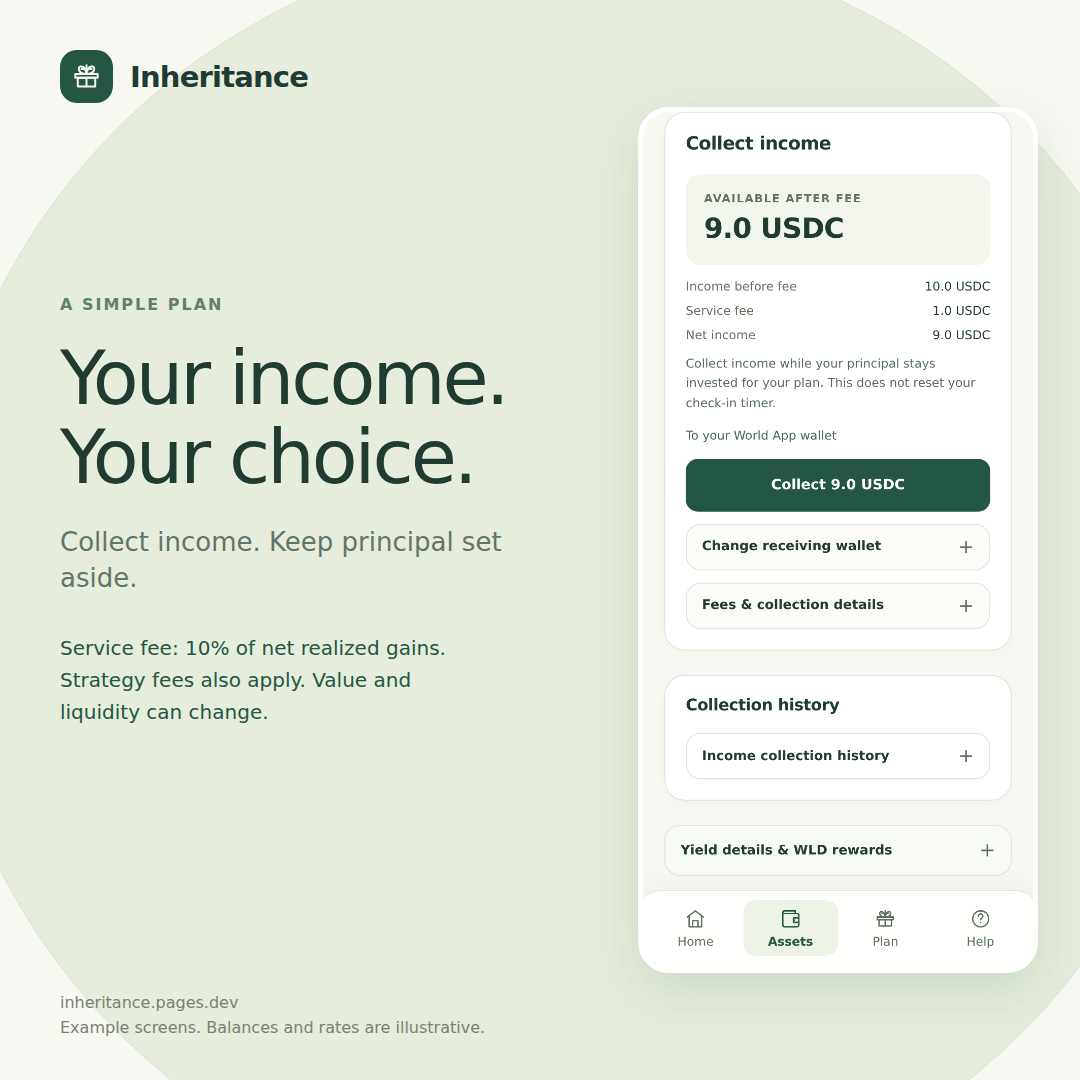
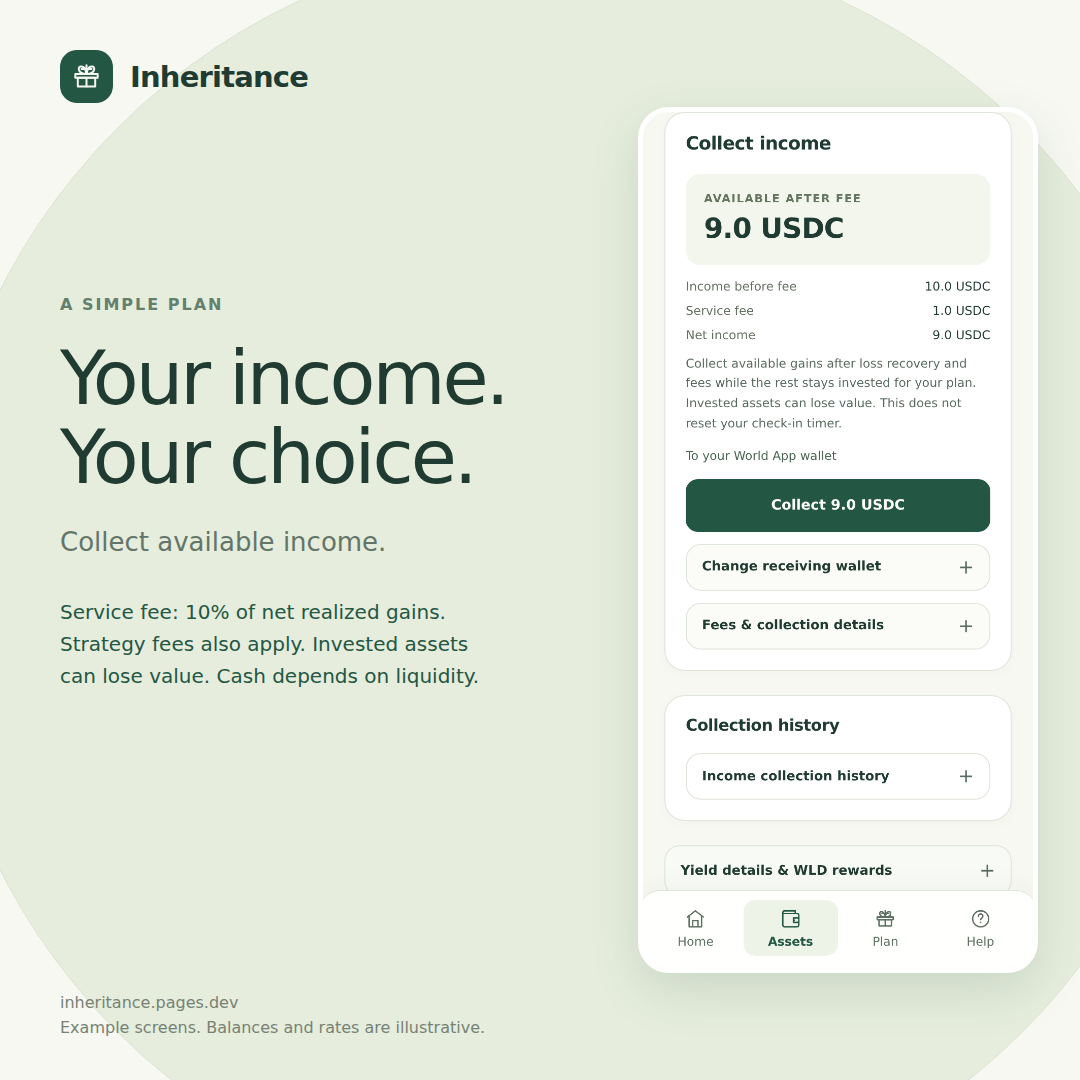
Make interrupted setup recovery visible and refresh reviewed store presentation

diff --git a/app/src/components/PlanSetup.tsx b/app/src/components/PlanSetup.tsx
@@ -120,8 +120,29 @@ export function PlanSetup({
   const [reviewSnapshot, setReviewSnapshot] = useState<ReviewSnapshot | null>(null);
   const [legalDocument, setLegalDocument] = useState<"terms" | "privacy" | null>(null);
   const reviewHeadingRef = useRef<HTMLHeadingElement>(null);
+  const resumeHeadingRef = useRef<HTMLHeadingElement>(null);
+  const resumeAttention = useRef({ pending: false, busy: false });
+  const hasPendingPlan = Boolean(pendingPlan);
   const wasReviewingRef = useRef(false);
   const createClickLocked = useRef(false);
+  useEffect(() => {
+    const previous = resumeAttention.current;
+    resumeAttention.current = { pending: hasPendingPlan, busy };
+    // A returned wallet request may replace the form below existing settings.
+    // Show the recovery action once; background reads must not move the reader.
+    if (!hasPendingPlan || busy || previous.pending && !previous.busy) return;
+    let focused = false;
+    const frame = requestAnimationFrame(() => {
+      focused = true;
+      resumeHeadingRef.current?.focus({ preventScroll: true });
+      resumeHeadingRef.current?.scrollIntoView({ block: "start" });
+    });
+    return () => {
+      cancelAnimationFrame(frame);
+      // StrictMode may replay mount effects before the frame has run.
+      if (!focused) resumeAttention.current = previous;
+    };
+  }, [hasPendingPlan, busy]);
   useEffect(() => {
     const viewport = window.visualViewport;
     if (!viewport) return;
@@ -388,7 +409,7 @@ export function PlanSetup({
     <CardContent className="plan-setup-content">
       {pendingPlan && <section className="plan-resume" aria-labelledby="plan-resume-title">
         <div>
-          <h3 id="plan-resume-title">{t("plan.pending.title")}</h3>
+          <h3 id="plan-resume-title" tabIndex={-1} ref={resumeHeadingRef}>{t("plan.pending.title")}</h3>
           <p>{t("plan.pending.body")}</p>
           {(pendingPlan.createState === "submitting" || pendingPlan.createState === "submitted")
             && <p role="status">{t("plan.pending.checkCreate")}</p>}

diff --git a/app/src/components/PlanSetup.css b/app/src/components/PlanSetup.css
@@ -64,7 +64,8 @@ html[data-plan-keyboard] .plan-setup-with-actions .card-content.plan-setup-conte
 .plan-setup-card .plan-final-review { border-color: #b7cbb3; background: #f1f6ed; }
 .plan-final-review > .plan-risk { margin-top: 10px; padding: 10px 0 0; border: 0; border-top: 1px solid #dfe6d8; background: transparent; }
 .plan-setup-card .plan-alignment-review { border-color: #d5bd7d; background: #fff9e9; }
-.plan-review h3:focus { outline: 2px solid #86a97f; outline-offset: 4px; border-radius: 2px; }
+.plan-review h3:focus, .plan-resume h3:focus { outline: 2px solid #86a97f; outline-offset: 4px; border-radius: 2px; }
+.plan-resume h3 { scroll-margin-top: 24px; }
 .plan-review-list { display: grid; margin: 8px 0 0; }
 .plan-review-list > div { display: grid; grid-template-columns: minmax(95px, .72fr) minmax(0, 1.5fr); gap: 10px; padding: 9px 0; border-top: 1px solid #eee4c8; }
 .plan-review-list dt { color: #5c6654; font-size: 11px; font-weight: 650; }

diff --git a/app/src/App.tsx b/app/src/App.tsx
@@ -4924,7 +4924,7 @@ export default function App() {
         {/* ===== Help 탭: 신뢰성 근거와 법적 고지 =====
             여러 카드를 한 탭에 묶으므로 fragment 로 감싼다. */}
         {tab === "support" && <>
-          <div className="help-language"><span>{t("language.label")} · Language</span><LanguagePicker /></div>
+          <div className="help-language"><span>{locale === "en" ? t("language.label") : `${t("language.label")} · Language`}</span><LanguagePicker /></div>
           <section className="help-topics" aria-labelledby="help-topics-title">
             <h2 id="help-topics-title">{t("help.questions")}</h2>
             <div className="help-topic-list">

diff --git a/docs/RELEASE.md b/docs/RELEASE.md
@@ -1,5 +1,46 @@
 # Release evidence
 
+## October 23, 2026 independent release and design review
+
+The user authorized continued independent agent review, improvements and review
+submission. Portal readback confirmed the October 21 feedback: "follow design
+and app guideliens. improve UX. tabs have the same UI." The response and concrete
+review steps are in [reviewer notes](REVIEW_NOTES.md).
+
+Independent UX inspection captured current English/Korean guest and owner flows
+at 390px and owner flows at 320px. Home prioritizes check-in; Assets manages
+balances and income; Plan manages recipients and intervals; Help contains rules
+and support. Empty balances, risk consent and recovery remain explicit. Final
+320px review checks included full legal-link/CTA clearance, exact amounts,
+over-balance/self-recipient errors and rejected-approval recovery. The English
+Help language label no longer repeats "Language".
+
+Store artwork was regenerated from current app captures. The income showcase
+now explicitly describes loss recovery, investment losses and cash liquidity;
+it does not imply guaranteed principal. All seven PNGs meet their dimensions,
+500KB limit and no-metadata requirements. Portal metadata explains the different
+tab purposes and retains the existing fee, risk and custody disclosures.
+
+Financial verification at World Chain block **36,708,856** found matching runtime
+bytecode for both current factories and deployers (excluding immutable slots).
+Both Re7 strategies reported a 10% performance fee; the service fee remained
+1,000bps. Direct deposit/redeem previews matched share conversion without an
+additional entry/exit deduction. This is evidence for the configured direct V1
+routes, not a statement about fees charged by a separate wallet interface.
+Financial unit/fuzz checks: **225 passed**. Current-block fork checks: **8 passed**,
+covering deposits, withdrawals, inheritance, share redemption and both assets'
+income collection. No production financial transaction was sent.
+
+Before this final polish, commit `1f6dc508` passed CI `39941868921`, deployment
+`39941869016` and native iOS `39941869001`. Its live Pages HTML matched release
+`2a7abd7f`; legal pages returned HTTP 200. Independent automation-health reads
+advanced from 11:01:59 to 11:03:59 UTC with ready, funded, fresh, not-halted
+Durable Object execution. These observations do not prove a future payout.
+
+Actual World App approval/notification services, physical-iPhone acceptance,
+unfamiliar-person comprehension and an independent external security audit are
+not established by these agent, browser, emulator or fork checks.
+
 ## October 13, 2026 app-first production and resubmission
 
 The user authorized production deployment and review resubmission. Main was

diff --git a/docs/REVIEW_NOTES.md b/docs/REVIEW_NOTES.md
@@ -4,6 +4,35 @@ App ID: `app_28c40a2a42b7f6c95789c2d5231b1314`
 URL: https://inheritance.pages.dev/
 Languages: English and Korean. Platform: World App iOS and Android.
 
+## Response to the October 21 design review
+
+The review asked us to follow the app/design guidelines, improve UX and make
+the tabs distinct. The four tabs now serve different tasks while sharing the
+same navigation and visual style:
+
+- **Home:** next check-in, its primary action and combined plan balances.
+- **Assets:** token balances, deposits, withdrawals and available income.
+- **Plan:** recipient, check-in interval, invitation and received-plan actions.
+- **Help:** language, rules, fees, risks, reminders and support.
+
+Before sign-in, each tab also has its own content: Home introduces the plan,
+Assets explains the balance view without inventing a balance, Plan explains the
+three setup steps, and Help is fully available. Browsing does not ask for a
+wallet signature.
+
+Suggested review: browse all four tabs before signing in; after signing in,
+compare Home's check-in with Assets' money controls and Plan's settings. In
+setup, use **Review plan** to inspect exact amounts, the recipient and fees before
+any wallet request. Open and close the Terms or Privacy Policy to verify the
+draft survives. The risk consent starts unchecked. The three-step explanation
+in Help distinguishes expiry, the heir's claim and the seven-day review period.
+
+Native Android WebView and iOS WKWebView tests cover keyboard handling,
+background/foreground, rejected approval and process-death recovery of a
+submitted but unmined deposit. The hosts use the real MiniKit SDK and disposable
+local funds; their simulated approvals do not establish actual World App
+approval-service or notification-delivery behavior.
+
 ## Sign-in and custody
 
 Tap **Continue with World App** to sign in; opening the app initializes the bridge without requesting a signature. World ID verification is not required. Pages verifies the MiniKit SIWE signature, origin, statement, chain and address, consumes a one-use random nonce in D1, and issues a one-hour session. The notification Worker independently verifies this session and current vault permissions. Expired sessions retain app navigation and ask the user to reconnect before viewing personal balances or acting on funds.
